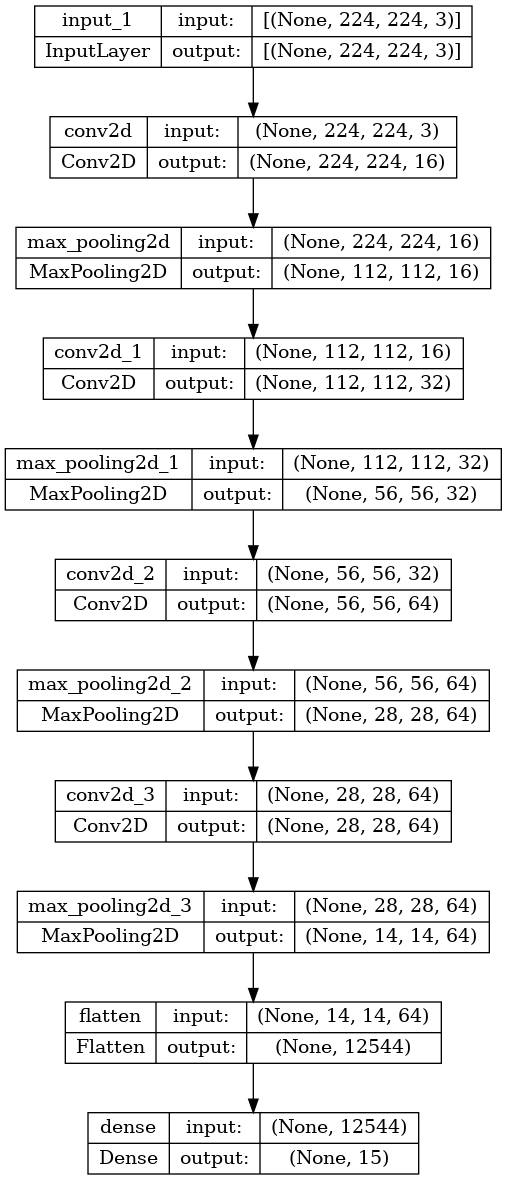
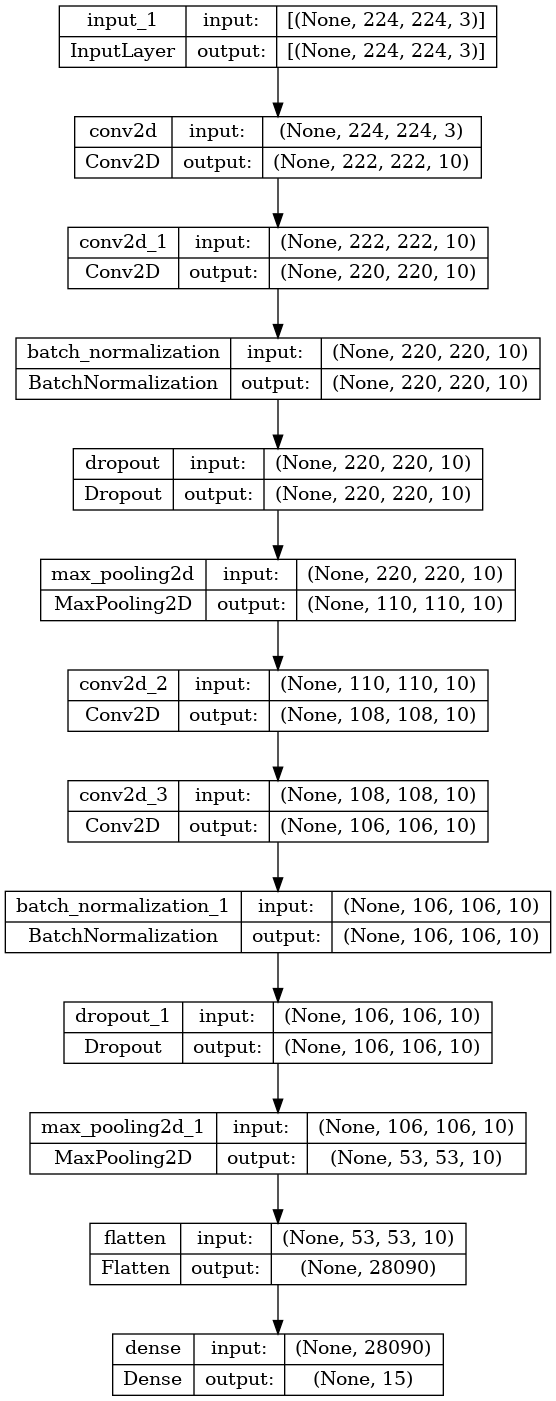
new model

Changed region(s): [[0.0, 0.0, 1.0, 1.0]]

diff --git a/read_dataset.py b/read_dataset.py
@@ -3,7 +3,7 @@ import random
 import tensorflow as tf
 import cv2
 import os
-from keras.layers import Conv2D, Dense, MaxPool2D, Input, Flatten
+from keras.layers import Conv2D, Dense, MaxPool2D, Input, Flatten, BatchNormalization, Dropout
 from keras.models import Model
 from keras.utils import plot_model
 from keras.metrics import Recall, Precision
@@ -14,6 +14,7 @@ labels = sorted(os.listdir("./dataset/train"))
 char_to_int = dict((c, i) for i, c in enumerate(labels))
 onehot_encoded = dict()
 
+os.environ["TF_CPP_MIN_LOG_LEVEL"] = "2"
 
 def get_path_X(type_data):
     data_path = []
@@ -82,45 +83,46 @@ def build_model():
     size = 224
     inputs = Input((size, size, 3))
     x = inputs
-    x = Conv2D(16, (3, 3), padding="same", activation="relu")(x)
-    x = MaxPool2D((2, 2))(x)
-    x = Conv2D(32, (3, 3), padding="same", activation="relu")(x)
-    x = MaxPool2D((2, 2))(x)
-    x = Conv2D(64, (3, 3), padding="same", activation="relu")(x)
-    x = MaxPool2D((2, 2))(x)
-    x = Conv2D(64, (3, 3), padding="same", activation="relu")(x)
-    x = MaxPool2D((2, 2))(x)
+    x = Conv2D(64, (3, 3), activation="relu")(x)
+    x = Conv2D(128, (3, 3), activation="relu")(x)
+    x = MaxPool2D((2, 2), strides=2)(x)
+    x = BatchNormalization()(x)
+    x = Dropout(0.3)(x)
     x = Flatten()(x)
+    x = Dense(1024, activation="relu")(x)
+    x = BatchNormalization()(x)
+    x = Dropout(0.3)(x)
     x = Dense(len(labels), activation="softmax")(x)
     return Model(inputs, x)
 
 
-batch = 8
-lr = 1e-4
-epochs = 50
+if __name__ == "__main__":
+    batch = 8
+    lr = 1e-4
+    epochs = 50
 
-cnn_model = build_model()
-plot_model(cnn_model, "model.png", show_shapes=True)
-cnn_model.summary()
-metrics = ["acc", Recall(), Precision()]
-cnn_model.compile(loss="binary_crossentropy", optimizer="adam", metrics=metrics)
-callbacks = [
-    ModelCheckpoint("files/model_new.h5"),
-    EarlyStopping(monitor="val_loss", patience=10, restore_best_weights=False)
-]
-train_steps = len(train_X_path) // batch
-valid_steps = len(val_X_path) // batch
-if len(train_X_path) % batch != 0:
-    train_steps += 1
-if len(val_X_path) % batch != 0:
-    valid_steps += 1
+    cnn_model = build_model()
+    plot_model(cnn_model, "model.png", show_shapes=True)
+    cnn_model.summary()
+    metrics = ["acc", Recall(), Precision()]
+    cnn_model.compile(loss="binary_crossentropy", optimizer="adam", metrics=metrics)
+    callbacks = [
+        ModelCheckpoint("files/model_new.h5"),
+        EarlyStopping(monitor="val_loss", patience=10, restore_best_weights=False)
+    ]
+    train_steps = len(train_X_path) // batch
+    valid_steps = len(val_X_path) // batch
+    if len(train_X_path) % batch != 0:
+        train_steps += 1
+    if len(val_X_path) % batch != 0:
+        valid_steps += 1
 
-cnn_model.fit(
-    train_ds,
-    validation_data=valid_ds,
-    epochs=epochs,
-    steps_per_epoch=train_steps,
-    validation_steps=valid_steps,
-    callbacks=callbacks,
-    shuffle=False
-)
+    cnn_model.fit(
+        train_ds,
+        validation_data=valid_ds,
+        epochs=epochs,
+        steps_per_epoch=train_steps,
+        validation_steps=valid_steps,
+        callbacks=callbacks,
+        shuffle=False
+    )

diff --git a/test.py b/test.py
@@ -1,0 +1,14 @@
+from keras.models import load_model
+from read_dataset import test_X_path, test_Y, tf_dataset
+
+batch_size = 8
+
+test_steps = (len(test_X_path) // batch_size)
+if len(test_X_path) % batch_size != 0:
+    test_steps += 1
+
+test_ds = tf_dataset(test_X_path, test_Y, batch_size)
+
+cnn_model = load_model("files/model_new.h5")
+
+cnn_model.evaluate(test_ds, steps=test_steps)
